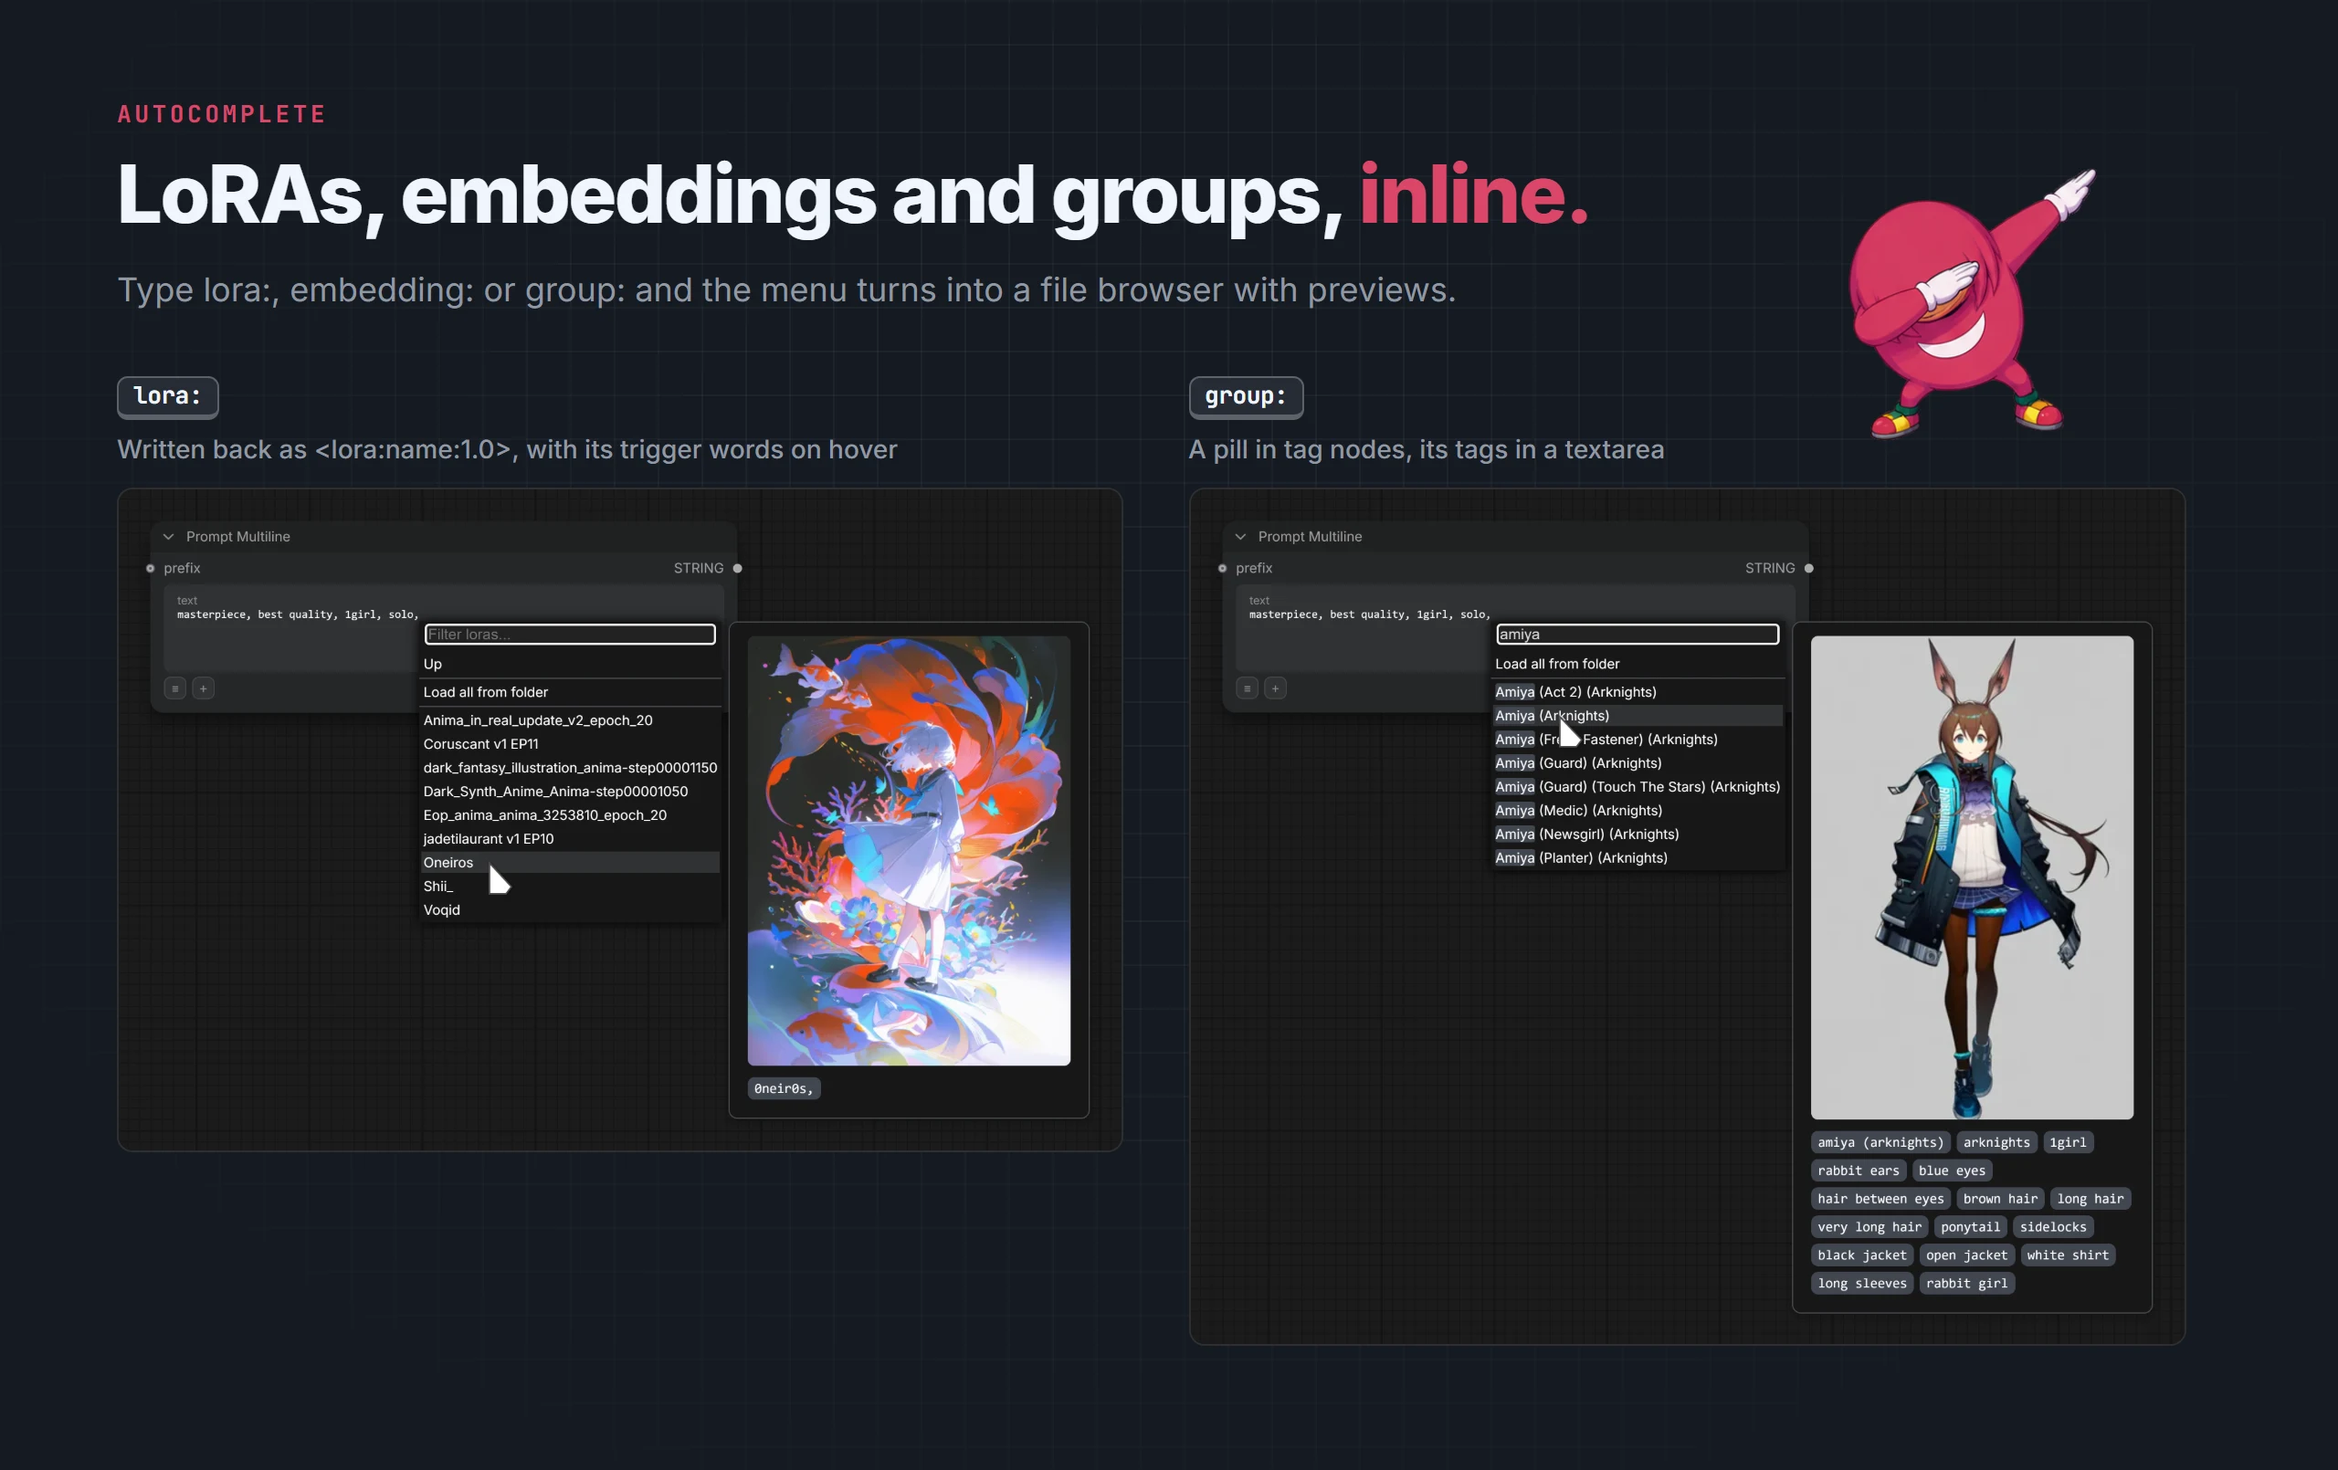
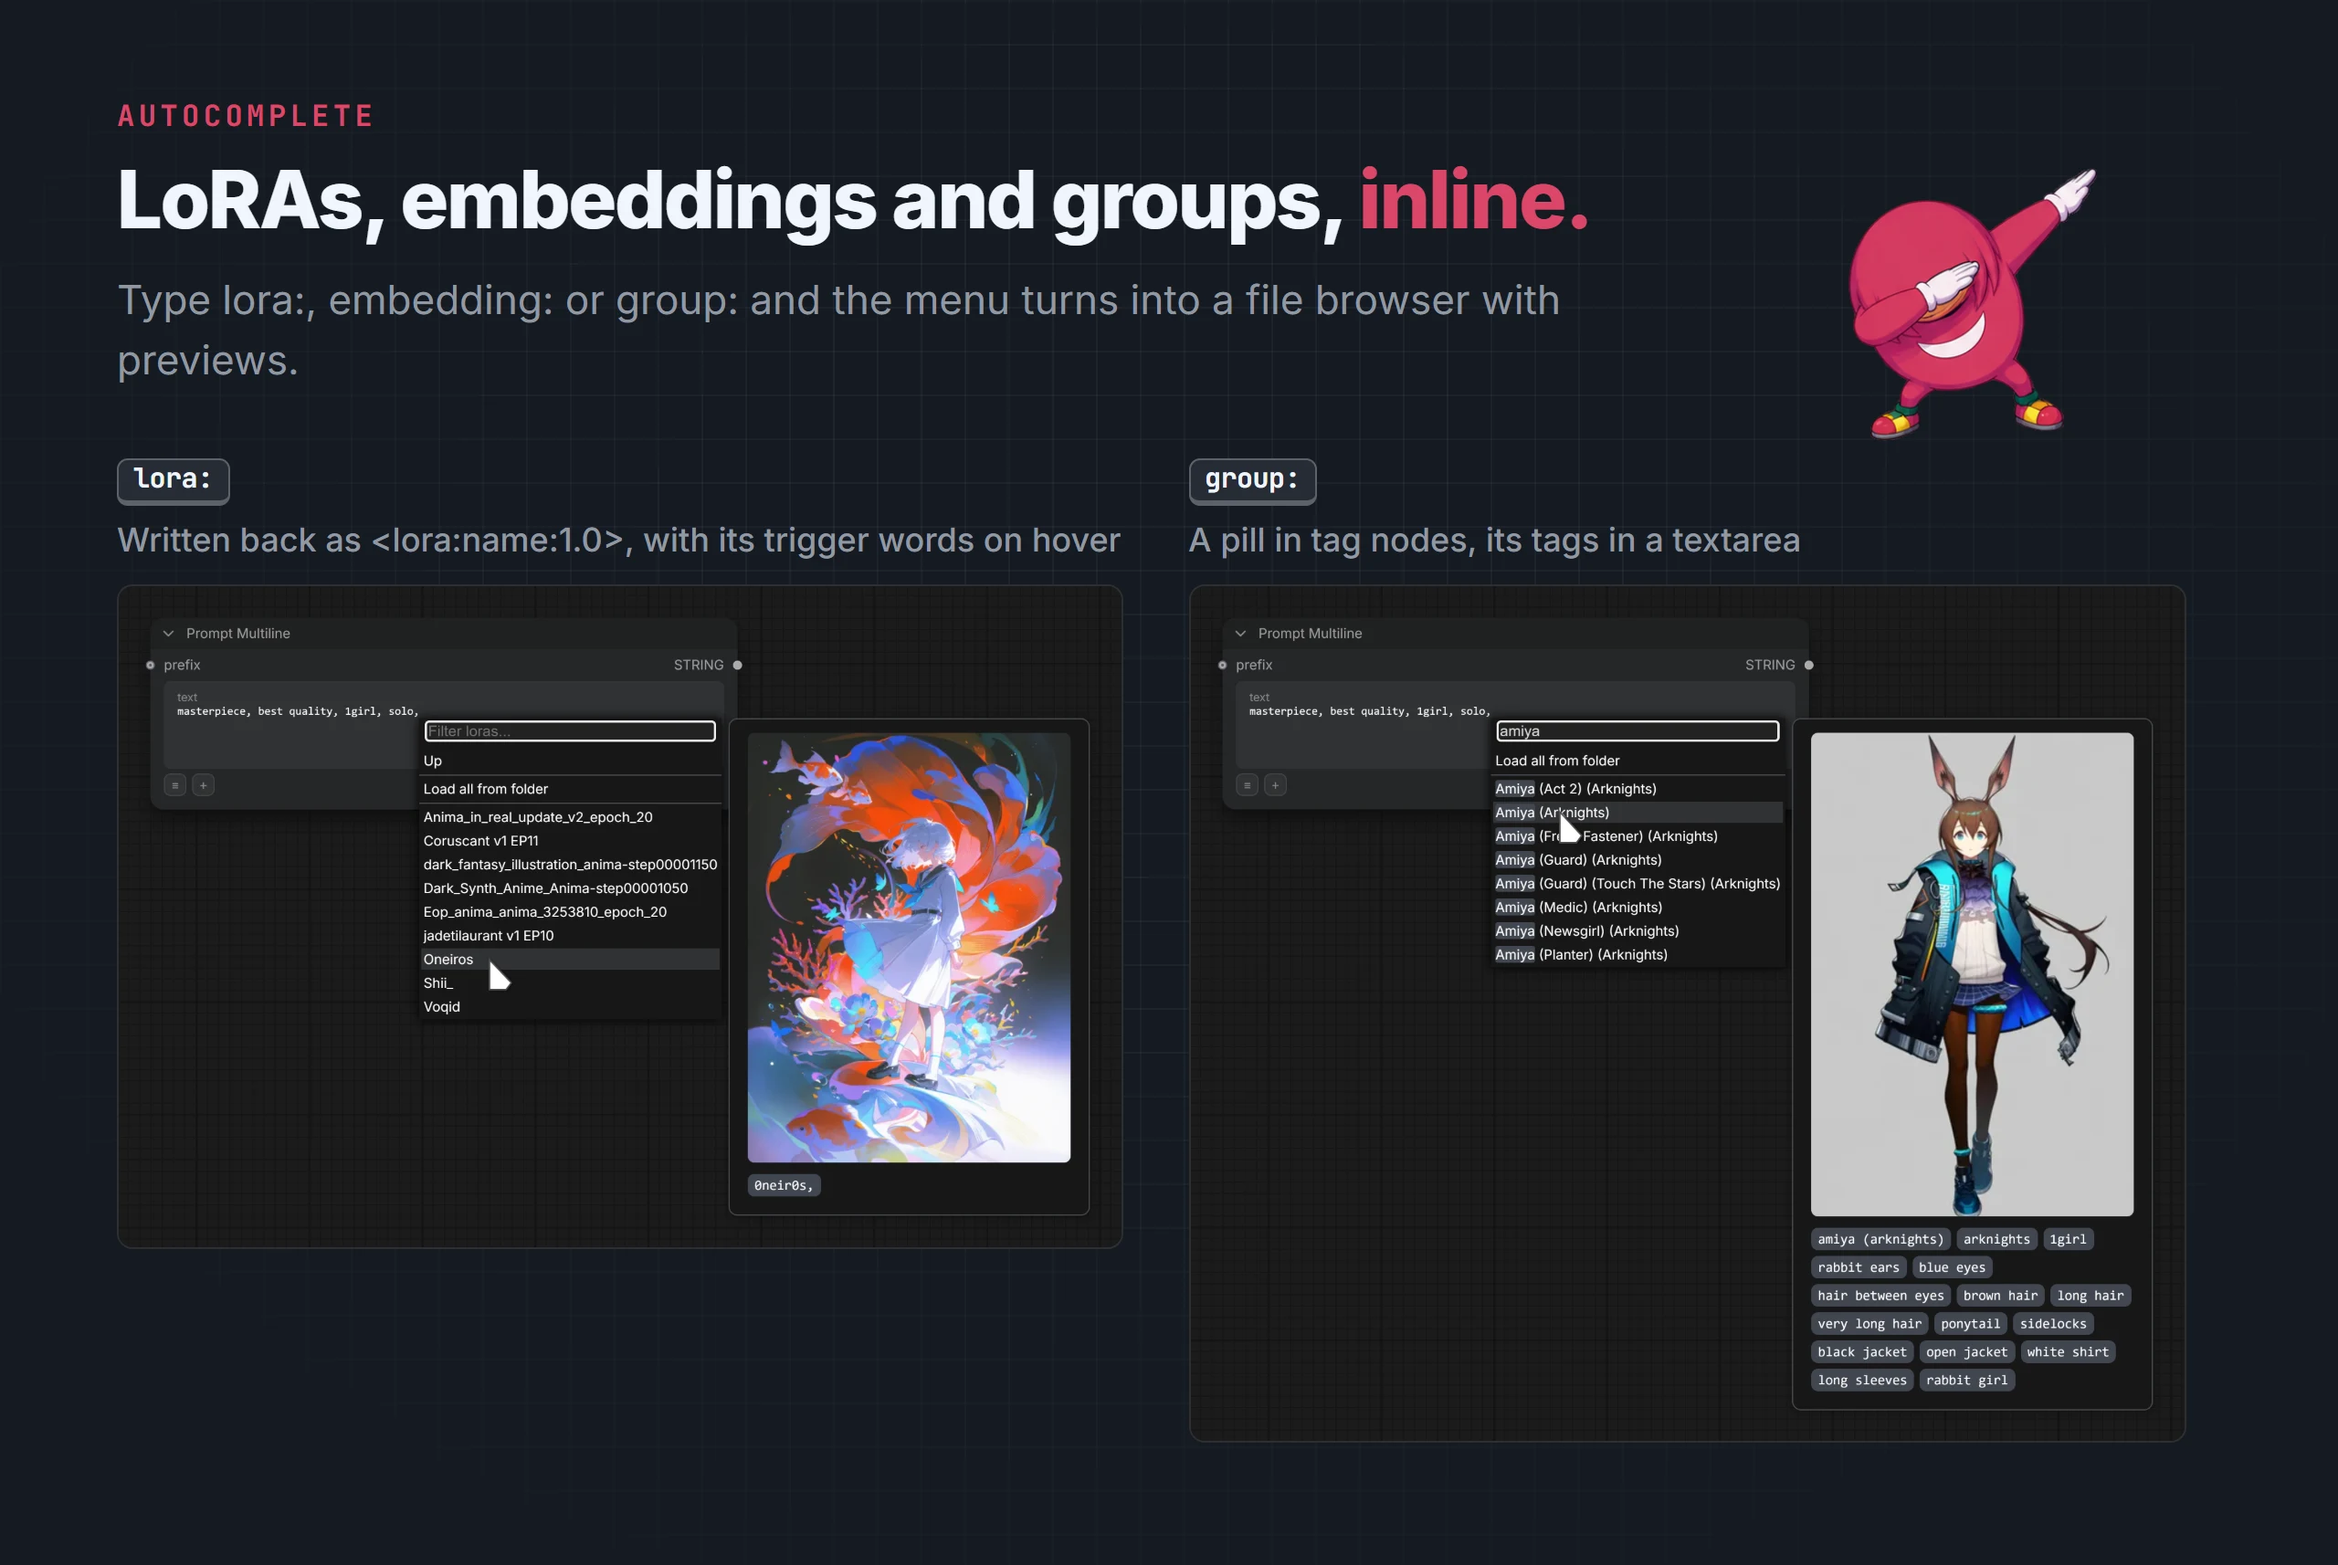
increased font size on images

diff --git a/README.md b/README.md
@@ -47,7 +47,7 @@ Your tag groups, LoRAs and embeddings in a native sidebar tab. Hover for tags, d
 
 Search Safebooru, Gelbooru or e621 from the sidebar. Hover a post for its tags, click one to search it, drag them into your prompt or save them as a tag group.
 
-### [LoRA loading](docs/lora-loading.md)
+### [LoRA loader](docs/lora-loader.md)
 <picture><source media="(prefers-color-scheme: dark)" srcset="docs/images/lora-loader-dark.webp"><img src="docs/images/lora-loader-light.webp" alt="Prompt Lora Loader" width="100%"></picture>
 
 The Prompt Lora Loader applies its own LoRAs and every `<lora:...>` in the incoming prompt, keeps the selected trigger words, and remaps older Anima LoRAs automatically.

diff --git a/docs/prompt-nodes.md b/docs/prompt-nodes.md
@@ -16,7 +16,7 @@ Every EreNodes prompt node outputs a `STRING` and shares the same [tag pills](ta
 | **Prompt Multiline** | A plain textarea with autocomplete and tag drop. |
 | **Prompt Composer** | Several categories in one node. See [Prompt Composer](prompt-composer.md). |
 | **Prompt Extractor** | Tags recovered from a dropped image. |
-| **Prompt Lora Loader** | Applies LoRAs to MODEL and CLIP. See [LoRA loading](lora-loading.md). |
+| **Prompt Lora Loader** | Applies LoRAs to MODEL and CLIP. See [LoRA loader](lora-loader.md). |
 
 ## The ≡ and + buttons
 

diff --git a/docs/lora-loader.md b/docs/lora-loader.md
@@ -1,6 +1,6 @@
-# LoRA loading
+# LoRA loader
 
-[EreNodes](../README.md) › LoRA loading
+[EreNodes](../README.md) › LoRA loader
 
 <picture><source media="(prefers-color-scheme: dark)" srcset="images/lora-loader-dark.webp"><img src="images/lora-loader-light.webp" alt="Prompt Lora Loader"></picture>
 
